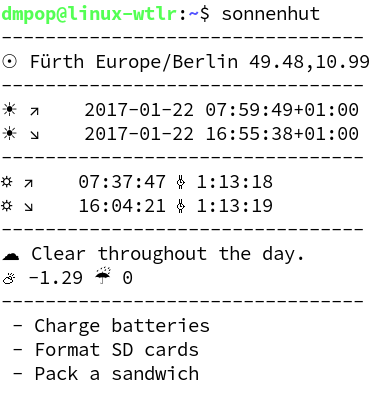
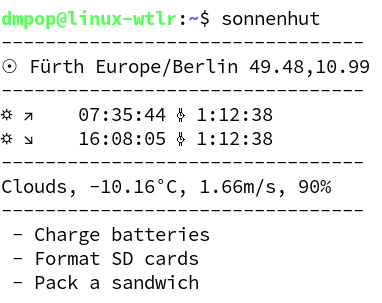
Switched to OpenWeatherMap :sunny:

diff --git a/sonnenhut.py b/sonnenhut.py
@@ -4,14 +4,14 @@ __author__ = 'Dmitri Popov'
 __copyright__ = 'Copyleft 2016, Dmitri Popov'
 __credits__ = ['Thomas Schraitle']
 __license__ = 'GPLv3'
-__version__ = '0.0.1'
+__version__ = '0.0.3'
 __maintainer__ = 'Dmitri Popov'
 __email__ = 'dpopov@suse.com'
 __URL__ = 'https://github.com/dmpop/sonnenhut'
 __status__ = 'Development'
 
 from astral import SUN_SETTING, SUN_RISING, Astral, GoogleGeocoder
-import datetime, sys, os.path, forecastio
+import datetime, sys, os.path, pyowm
 
 if len(sys.argv) > 1:
     city = sys.argv[1]
@@ -27,16 +27,11 @@ try:
 except:
     sys.exit(u'\u26a0 Failed to obtain geographical coordinates of the specified city.')
 
-ds_api_key = 'a07923ea4e7611a5501706475d5a9687'
+owm = pyowm.OWM('f2871760abe7535464065759cf85bd3c')
 
 print('---------------------------------')
 timezone = location.timezone
 print (u'\u2609 %s %s %.02f,%.02f' % (location.name, timezone, location.latitude, location.longitude))
-print('---------------------------------')
-sunrise = location.sunrise(date=None, local=True)
-print (u'\u2600 \u2197    %s' % sunrise)
-sunset = location.sunset(date=None, local=True)
-print (u'\u2600 \u2198    %s' % sunset)
 print('---------------------------------')
 
 gh_sunrise = location.golden_hour(direction=SUN_RISING, date=None, local=True)
@@ -47,14 +42,17 @@ print (u'\u263C \u2198    {hh:02d}:{mm:02d}:{ss:02d} \u231a {duration}    '.form
 print('---------------------------------')
 
 try:
-    forecast = forecastio.load_forecast(ds_api_key, location.latitude, location.longitude)
+    weather = owm.weather_at_coords(location.latitude, location.longitude)
 except:
     sys.exit(u'\u26a0 Failed to obtain weather data.')
 
-hourly = forecast.hourly()
-currently = forecast.currently()
-print (u'\u2601 %s' % hourly.summary)
-print (u'\u26C5 %s \u2614 %s' % (currently.temperature, currently.precipProbability))
+w = weather.get_weather()
+status = w.get_status()
+icon = w.get_weather_icon_name()
+wind_speed = w.get_wind()
+temp = w.get_temperature('celsius')
+humidity = w.get_humidity()
+print('%s, %s°C, %sm/s, %s%%' % (status, temp['temp'], wind_speed['speed'], humidity))
 print('---------------------------------')
 
 if os.path.isfile(txt_path):

diff --git a/README.md b/README.md
@@ -6,11 +6,9 @@ A crude Python script for photographers. Displays basic information such as curr
 
 The script provides the following information:
 
- - Sunrise and sunset
  - Golden hour start and duration
  - Brief weather summary
- - Current temperature
- - Precipitation probability
+ - Current temperature, wind speed, and humidity
 
 The script also shows notes from the accompanying *sonnenhut.txt* file (created automatically during the fist run).
 
@@ -20,12 +18,12 @@ The script also shows notes from the accompanying *sonnenhut.txt* file (created 
 
 1. Install Python 3 and Git: `sudo zypper in python3 git`
 2. Install the *Astral* module: `sudo pip install astral`
-3. Install the *python-forecast.io* module: `sudo pip install python-forecast.io`
+3. Install the *pyowm* module: `sudo pip install pyown`
 4. Clone the Git repository: `git clone https://github.com/dmpop/sonnenhut.git`
 
 Alternatively, run the following command:
 
-    sudo zypper in python3 git; sudo pip install astral; sudo pip install python-forecast.io; git clone https://github.com/dmpop/sonnenhut.git;
+    sudo zypper in python3 git; sudo pip install astral; sudo pip install pyowm; git clone https://github.com/dmpop/sonnenhut.git;
 
 ## Usage
 
